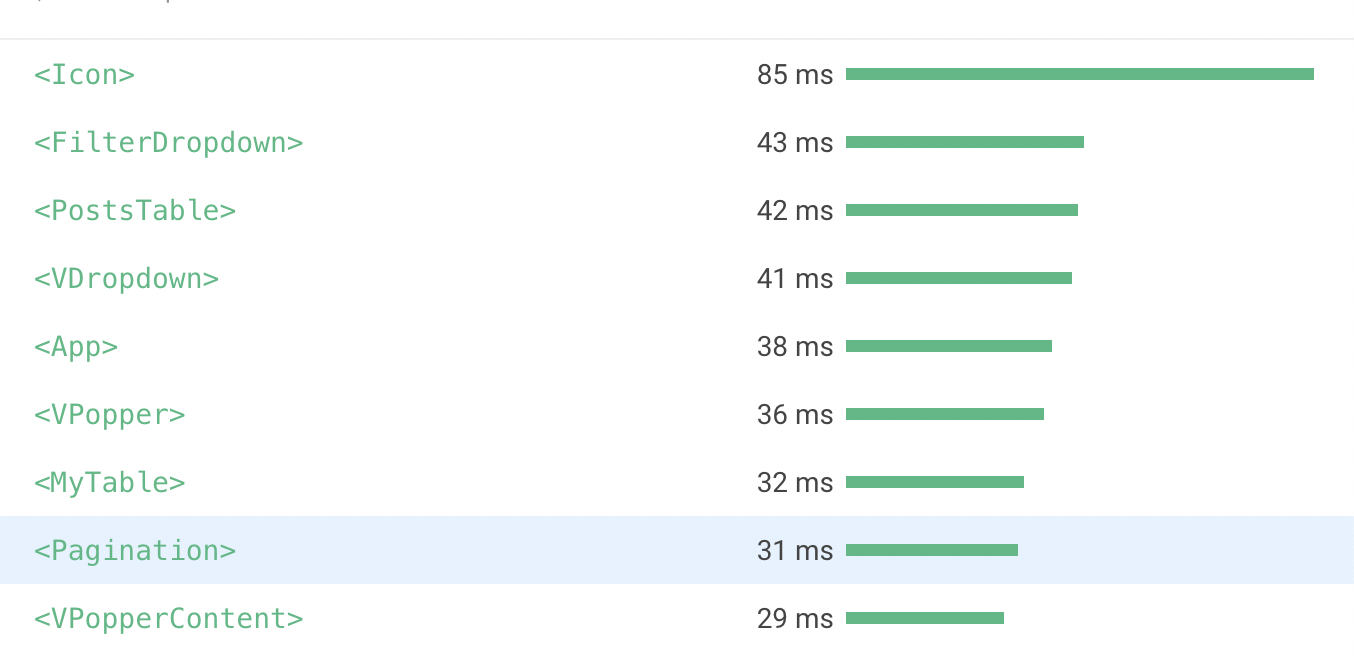
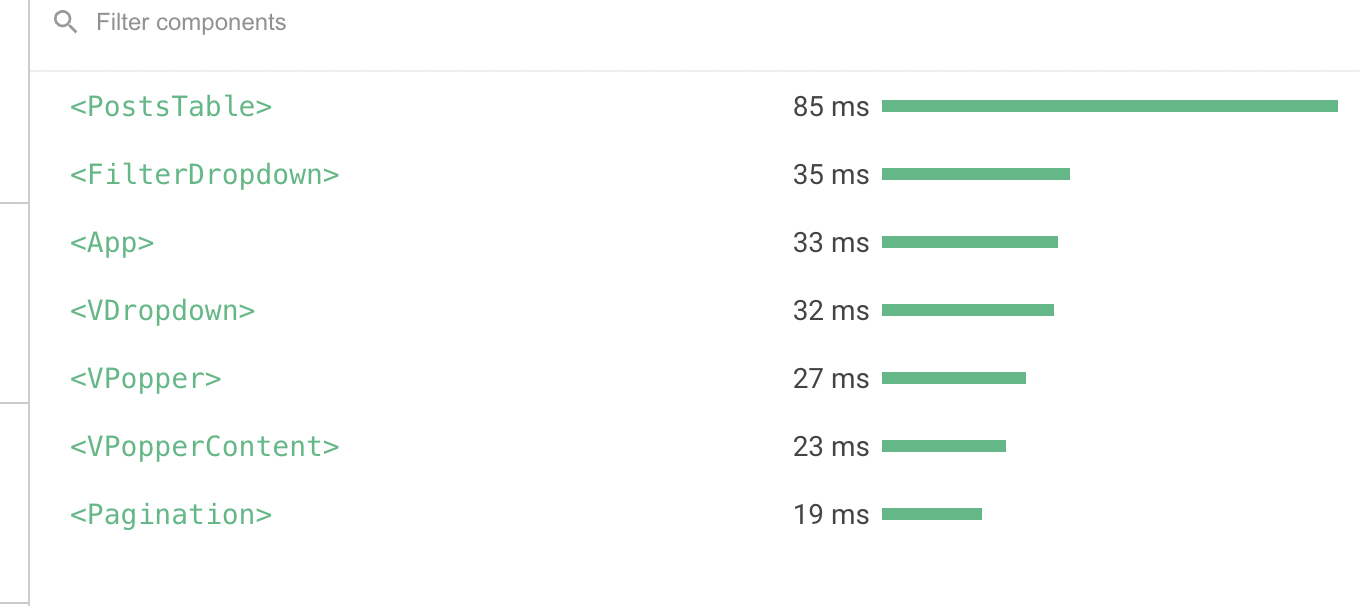
change readme.md (added analysis)

diff --git a/README.md b/README.md
@@ -4,7 +4,7 @@
 ## Задание
 Реализовать свою таблицу по аналогии того что проходили на занятии
 
-Требования к таблице: 
+Требования к таблице:
 - Отображение данных
 - Возможность отфильтровать данные хотя бы по одной колонке
 - Возможность сортировать данные хотя бы по одной колонке
@@ -21,7 +21,27 @@
 Дедлайн - 4 декабря
 
 # Сравнительный анализ отрисовки приложения на обычных и функциональных компонентах
-Начальная отрисовка приложения (обычные)
+На функциональные компоненты переписан компонент обычной таблицы (не виртуальный скролл)
+
+Начальная отрисовка приложения 500 записей (обычные) – 434ms
+![](./src/images/analysis/1-fps-common.png)
 ![](./src/images/analysis/1-common.png)
-Начальная отрисовка приложения (функциональные)
+Начальная отрисовка приложения 500 записей (функциональные) - 407ms
+![](./src/images/analysis/1-fps-func.png)
 ![](./src/images/analysis/1-func.png)
+
+Начальная отрисовка приложения 5 записей (обычные) - 411ms
+![](./src/images/analysis/2-fps-common.png)
+![](./src/images/analysis/2-common.png)
+Начальная отрисовка приложения 5 записей (функциональные) - 360ms
+![](./src/images/analysis/2-fps-func.png)
+![](./src/images/analysis/2-func.png)
+
+Отрисовка таблицы с бесконечным скроллом с прокруткой до 200 элемента (обычные) - 903ms
+![](./src/images/analysis/3-fps-common.png)
+![](./src/images/analysis/3-common.png)
+Отрисовка таблицы с бесконечным скроллом с прокруткой до 200 элемента (функциональные) - 522ms
+![](./src/images/analysis/3-fps-func.png)
+![](./src/images/analysis/3-func.png)
+
+Из вышеприведенных скринов, можно сделать вывод, что при смене  компонентов (где это возможно) на функциональные, отрисовка стала более быстрой, особенно это существенно заметно, при подгрузке постепенно в таблицу большого количества новых записей
